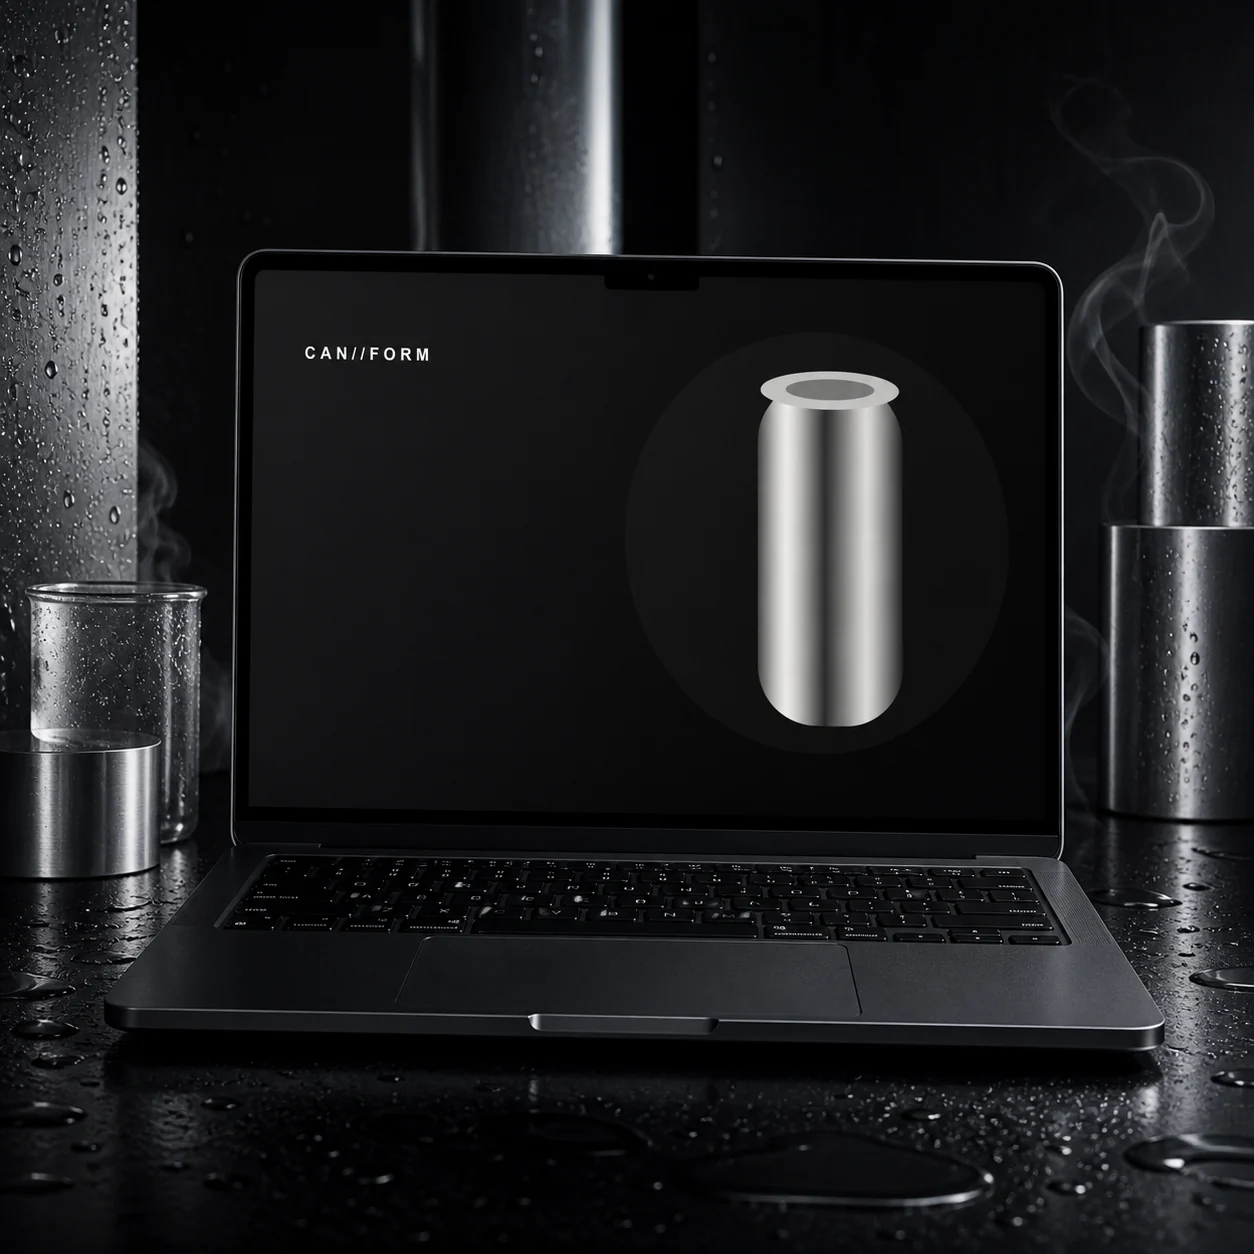
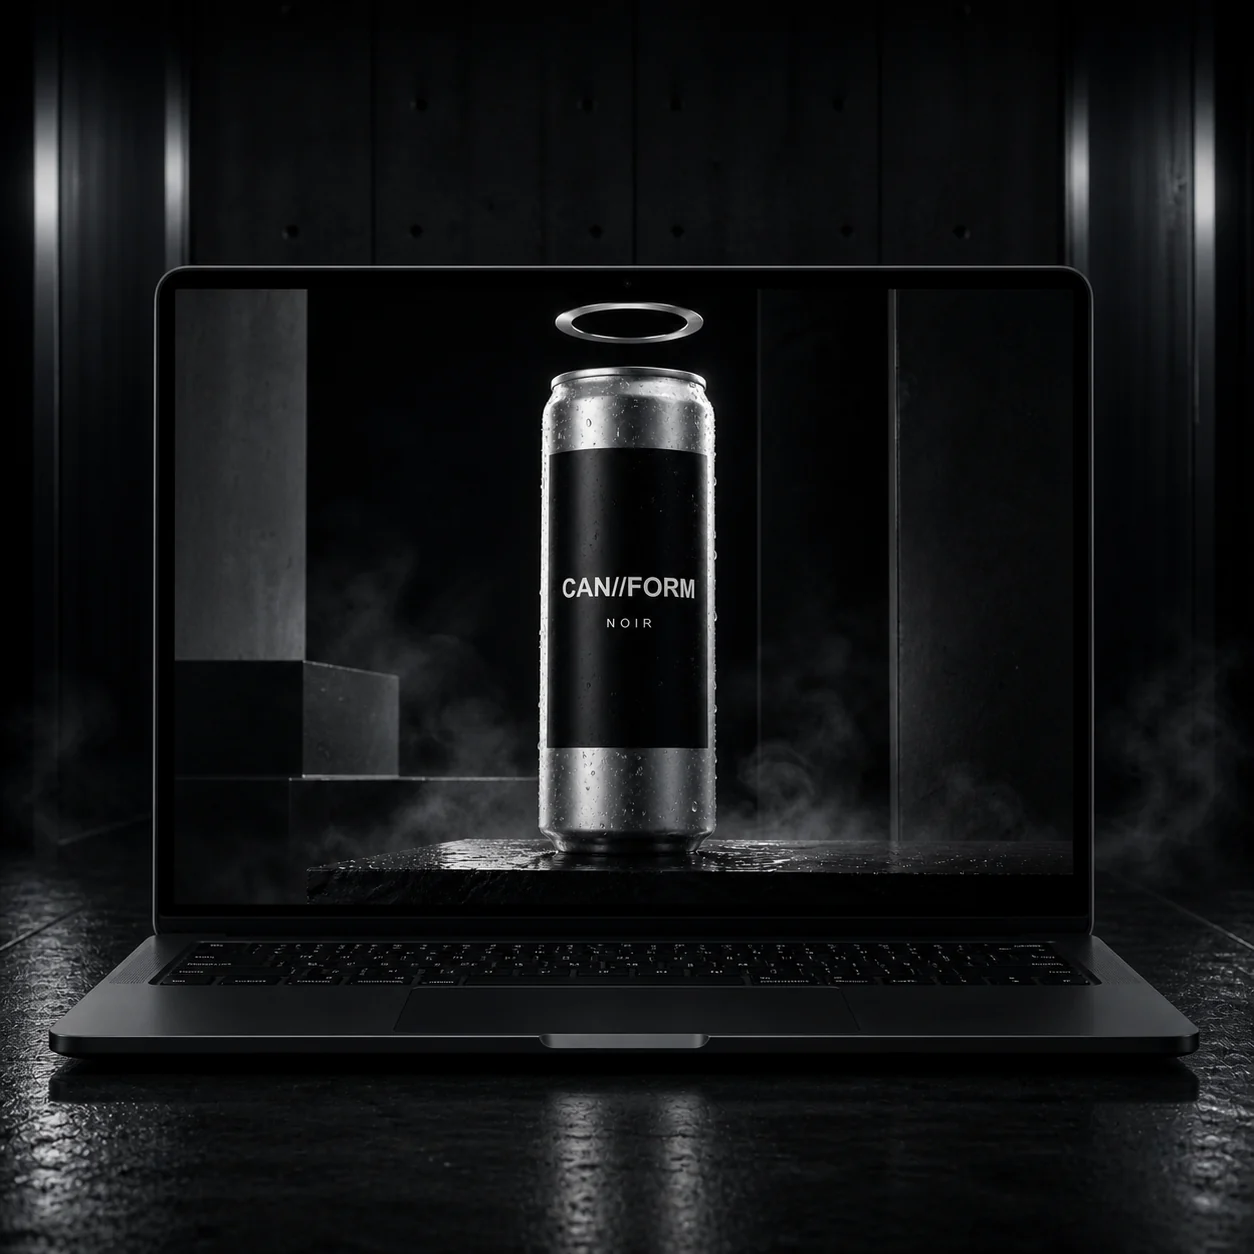
style(projects): refresh CAN FORM mockup

diff --git a/CHANGELOG.md b/CHANGELOG.md
@@ -8,6 +8,9 @@ stosują [Semantic Versioning](https://semver.org/).
 
 ### Changed
 
+- Mockup „CAN//FORM” zastąpiono spójnym z wyróżnioną kolekcją kadrem
+  laptopowym, którego ekran prezentuje pełnoekranową kampanię puszki NOIR w
+  ciemnej, industrialnej scenografii zamiast podglądu interfejsu strony,
 - Do wyróżnionej siódemki dodano projekty „DUAL / CHOICE”, „VEIL” i
   „ARTIFACT SEED”, zastępując odpowiednio „Beyond the Door”, „EDM Music
   Festival” i „VOID DROP”; trzy dotychczasowe realizacje zachowano na początku
